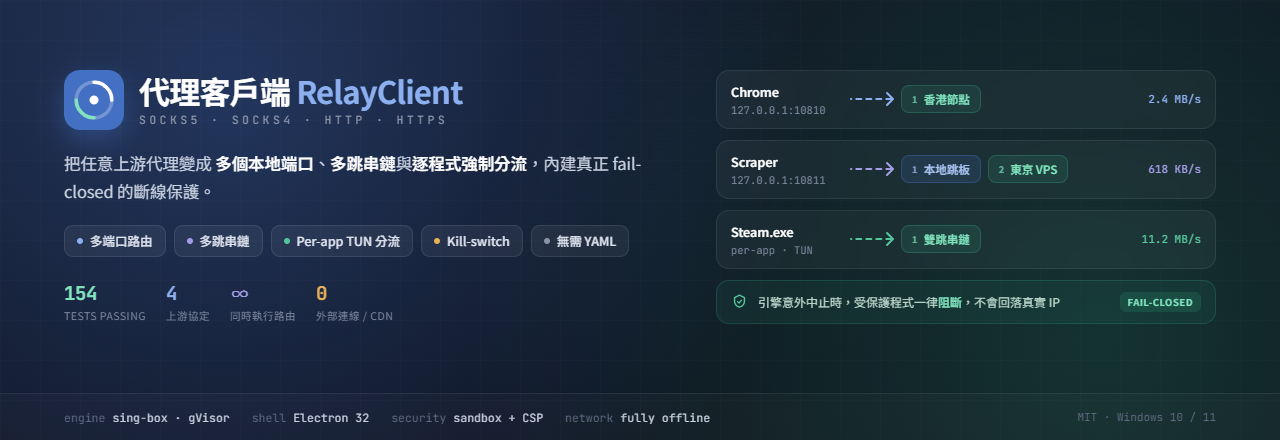
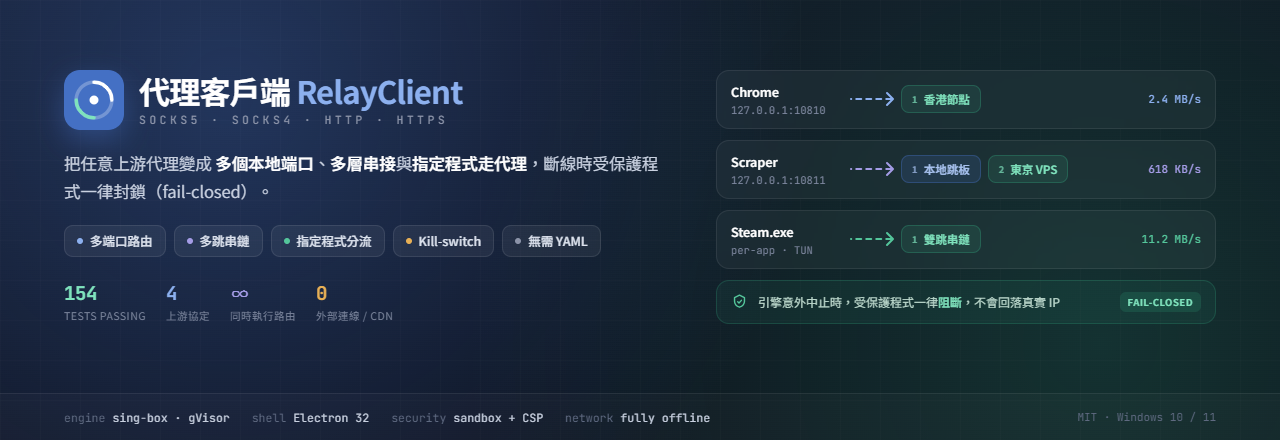
Refine README wording; bump to v1.1.1
- Tone down AI-flavored formatting in both READMEs: drop decorative
  emoji, turn em-dash mini-heading bullets into plain definition lists,
  break rule-of-three phrasing, vary sentence rhythm (reviewed against
  the sepia de-AI writing checklist)
- ROUTES.md: fix stale "UI later" note now that the route editor GUI ships
- Re-render dashboard overview image
- Bump version 1.1.0 -> 1.1.1

Changed region(s): [[0.25, 0.3545, 0.5312, 0.4136], [0.0312, 0.4136, 0.2188, 0.4727], [0.2188, 0.5318, 0.5, 0.5614]]

diff --git a/README.md b/README.md
@@ -4,7 +4,7 @@
 
 **繁體中文** · [English](README.en.md)
 
-把任意 SOCKS / HTTP 上游變成 **多個本地端口 · 多跳串鏈 · 逐程式強制分流**，內建真正 fail-closed 的斷線保護。
+把手上的 SOCKS / HTTP 代理，變成 **多個本地端口 · 多層串接 · 指定程式走代理**；斷線時受保護的程式一律封鎖，不會外洩真實 IP。
 
 [![CI](https://github.com/guan4tou2/relay-client/actions/workflows/ci.yml/badge.svg)](https://github.com/guan4tou2/relay-client/actions/workflows/ci.yml)
 ![Platform](https://img.shields.io/badge/platform-Windows%2010%20%2F%2011-0078D6)
@@ -20,95 +20,94 @@
 
 ## 為什麼用 RelayClient？
 
-多數工具只做一種模型：要嘛**逐程式攔截**（Proxifier、ProxyCap、WideCap），要嘛**規則式隧道**（Clash / Mihomo，YAML 驅動、主打 SS/VMess/Trojan 生態）。
+一般代理工具通常只做一件事：要嘛**攔截個別程式的連線**幫你轉走（Proxifier、ProxyCap、WideCap），要嘛做一個**靠規則自動分流的隧道**（Clash / Mihomo，要寫 YAML 設定，主打 Shadowsocks / VMess / Trojan 那類協定）。
 
-**RelayClient 兩種都做**，且刻意聚焦在單純的 **SOCKS5 / SOCKS4 / HTTP / HTTPS** 上游——不寫 YAML、不碰花俏協定、開源免費。你同時擁有「多個本地中繼端口」與「逐程式 TUN 攔截」，全在一支小巧的原生 app 裡。
+**RelayClient 兩種都做**，但刻意只支援最單純的 **SOCKS5 / SOCKS4 / HTTP / HTTPS** 代理：不用寫 YAML，也不碰 Shadowsocks / VMess 那類協定。開源、免費。「多個本地端口」和「用虛擬網卡攔截指定程式」可以同時用，全在一支原生 app 裡。
 
 ## 功能
 
-- 🎛 **多端口路由** — 每個本地端口綁定**各自**的上游或串鏈，彼此獨立、同時運作。Chrome 指到 `:10810`、爬蟲指到 `:10811`，各走不同出口。
-- 🔗 **多跳串鏈** — `你 → A → B → C → 目標`，proxychains 那味，每條路由獨立設定。
-- 🎯 **逐程式分流（TUN）** — 依**程式名或完整路徑**強制指定程式走代理，其餘直連 —— 像 Proxifier，但用現代 TUN 引擎（[sing-box](https://github.com/SagerNet/sing-box)，gVisor stack），不是老式 LSP hook。
-- 🛡 **斷線保護（fail-closed）** — 分流引擎意外中止時，受保護程式一律**阻斷**，不會回落用真實 IP 裸奔。
-- 🔌 一鍵系統代理、延遲測試、每路由流量統計、多跳即時檢視。
-- 🌗 深/淺/跟隨系統主題 · 系統匣 · 開機自啟 · 匯入匯出 · **自動更新**。
-- 🔒 **強化**：`contextIsolation` + `sandbox`、嚴格 CSP、完全離線（無遠端字型/CDN）、導覽鎖在本地頁面。
+- **多端口路由**：每個本地端口綁定各自的代理（或一整串代理），彼此獨立、可同時開。例如 Chrome 指到 `127.0.0.1:10810`、爬蟲指到 `:10811`，各自從不同節點出網。
+- **多層串接（串鏈）**：連線依序繞過好幾台代理再出網，`你的程式 → A → B → C → 目標`，等同 proxychains，每條路由分開設定。
+- **指定程式走代理**：依程式名稱或完整路徑，把某些程式的連線導去代理、其餘直連，效果類似 Proxifier。底層是 [sing-box](https://github.com/SagerNet/sing-box) 的虛擬網卡（TUN）引擎，連本身沒有 proxy 設定的程式也管得到。
+- **斷線保護（Kill-switch）**：分流引擎萬一意外掛掉，受保護的程式會被直接封鎖，不會改走直連而露出真實 IP（也就是「失敗就斷」，fail-closed）。
+- **其他日常功能**：一鍵開關系統代理、測連線延遲、每條路由的流量統計、串接路徑即時狀態、深色／淺色／跟隨系統主題、縮到系統匣、開機自動啟動、設定匯入匯出、自動更新。
+- **安全設計**：畫面與系統權限隔離、內容安全政策（CSP）鎖死、完全離線，不連任何遠端字型或 CDN。
 
 ## 總覽
 
 ![overview](docs/overview.png)
 
-| 總覽（多路由）| 逐程式分流 |
+| 總覽（多條路由）| 指定程式走代理 |
 |---|---|
 | ![dashboard](docs/screenshot-dashboard.png) | ![split](docs/screenshot-split.png) |
-| **伺服器（上游節點）** | **設定** |
+| **伺服器（上游代理清單）** | **設定** |
 | ![servers](docs/screenshot-servers.png) | ![settings](docs/screenshot-settings.png) |
 
 ## 運作原理
 
-RelayClient 圍繞**兩個可同時運作的獨立路由平面**設計。
+RelayClient 有**兩種可以同時使用的路由方式**。
 
-### 平面 A — 自建本地端口
+### 方式 A — 自建本地端口
 
-每條*路由*開一個本地監聽（`127.0.0.1:<port>`），對你的程式講 SOCKS5 或 HTTP，再轉發到上游（單跳或串鏈）。各路由彼此隔離，可多條同時跑、各有出口。
+每條*路由*會開一個本地端口（`127.0.0.1:<port>`），對你的程式提供 SOCKS5 或 HTTP，再把連線轉發到上游代理（單跳或多層串接）。各路由彼此獨立，可以多條同時開、各自從不同節點出網。支援 proxy 設定的程式（瀏覽器、curl、git）指過來就好，不用裝驅動、不攔截系統。
 
 ```mermaid
 flowchart LR
-  B[Browser] -->|"127.0.0.1:10810"| R1["Route 1 · SOCKS5"]
-  C[Scraper] -->|"127.0.0.1:10811"| R2["Route 2 · chain"]
-  R1 --> U1[Upstream A]
-  R2 --> H1[Hop B] --> H2[Hop C] --> T((Internet))
+  B[瀏覽器] -->|"127.0.0.1:10810"| R1["路由 1 · SOCKS5"]
+  C[爬蟲] -->|"127.0.0.1:10811"| R2["路由 2 · 串接"]
+  R1 --> U1[上游 A]
+  R2 --> H1[中繼 B] --> H2[中繼 C] --> T((網際網路))
   U1 --> T
 ```
 
-### 平面 B — 逐程式分流（TUN）
+### 方式 B — 指定程式走代理（虛擬網卡 / TUN）
 
-對於不能設定 proxy 的程式，引擎會建立 TUN 網卡並依程序路由。一條規則把 `chrome.exe` 送進某路由，未命中的走直連。app 與引擎**永遠 bypass 自己**，避免 relay→上游 的連線被再抓一次（結構上防迴圈）。
+有些程式不能自己設定 proxy。這時引擎會建立一張**虛擬網卡（TUN）**，依「程式」來分流：一條規則把 `chrome.exe` 送進某條路由，沒被規則命中的就走直連。app 和引擎**永遠略過自己的流量**（不攔自己），這樣「本地中繼 → 上游代理」的連線才不會被虛擬網卡再抓回去繞圈，從設計上就避免了無限迴圈。
 
 ```mermaid
 flowchart LR
-  A1["chrome.exe (rule → Route 1)"] --> TUN{{TUN engine}}
-  A2["other apps (default)"] --> TUN
-  TUN -->|matched| RP["127.0.0.1:10810 → upstream"]
-  TUN -->|default direct| D[Direct]
-  RP --> Net((Internet))
+  A1["chrome.exe（規則 → 路由 1）"] --> TUN{{虛擬網卡引擎}}
+  A2["其他程式（預設）"] --> TUN
+  TUN -->|命中規則| RP["127.0.0.1:10810 → 上游代理"]
+  TUN -->|預設直連| D[直連]
+  RP --> Net((網際網路))
   D --> Net
 ```
 
 ### 斷線保護（Kill-switch）
 
-引擎異常中止（而非你主動停止）時，RelayClient 立即以 **block 模式**重建 TUN——受保護程式被丟棄（reject）、其餘照常——並跳出紅色告警與「重新連線 / 停用」。**不碰防火牆**，用的是同一套 TUN 機制，不會多出被端點監控盯上的新指紋。
+引擎意外中止時（是它自己掛掉，不是你按停止），RelayClient 會立刻用封鎖模式重建虛擬網卡：受保護的程式流量直接丟棄，其他程式照常，同時跳出紅色提示讓你選「重新連線 / 停用」。整個過程完全不動 Windows 防火牆，用的是跟平常分流同一套機制，所以不會多出防毒或監控軟體會特別留意的新行為。
 
 ## 與 Proxifier · WideCap · Clash · ProxyCap 的差異
 
-> ✅ 有 · ➖ 部分/受限 · ❌ 無。力求公允，不是為了贏。
+> ✅ 有 · ➖ 部分／受限 · ❌ 無。力求公允，不是為了贏。
 
 | | **RelayClient** | Proxifier | WideCap | Clash / Mihomo | ProxyCap |
 |---|:---:|:---:|:---:|:---:|:---:|
-| 授權 / 價格 | **MIT · 免費** | 商業 | 免費、閉源 | 開源 | 商業 |
+| 授權 / 價格 | **MIT · 免費** | 商業付費 | 免費、閉源 | 開源 | 商業付費 |
 | 開源 | ✅ | ❌ | ❌ | ✅ | ❌ |
-| 上游類型 | SOCKS5/4 · HTTP(S) | SOCKS4/5 · HTTP(S) | SOCKS · HTTP | SS · VMess · Trojan · SOCKS · HTTP … | SOCKS4/5 · HTTP(S) · SSH |
-| 逐程式路由 | ✅ TUN | ✅ LSP/核心 | ✅ | ✅ TUN + 程序規則 | ✅ 驅動 |
-| **多本地端口，各綁不同上游/串鏈** | ✅ **核心** | ➖ 單一 ruleset | ➖ | ➖ 單一混合埠 | ➖ |
-| 多跳串鏈 | ✅ 每路由 | ✅ | ➖ | ✅ relay group | ✅ |
-| 逐程式 **kill-switch**（fail-closed） | ✅ | ➖ | ❌ | ➖ 僅全域 TUN | ➖ |
-| 網域 / GeoIP 規則引擎 | ❌（依程式/依埠） | ✅ | 僅程式 | ✅ **強** | ✅ |
-| 設定方式 | GUI | GUI | GUI | YAML (+GUI) | GUI |
+| 上游代理類型 | SOCKS5/4 · HTTP(S) | SOCKS4/5 · HTTP(S) | SOCKS · HTTP | SS · VMess · Trojan · SOCKS · HTTP … | SOCKS4/5 · HTTP(S) · SSH |
+| 指定程式走代理 | ✅ 虛擬網卡 | ✅ 系統掛鉤 | ✅ | ✅ 虛擬網卡＋程式規則 | ✅ 驅動 |
+| **多個本地端口、各綁不同代理／串接** | ✅ **核心特色** | ➖ 只有單一規則集 | ➖ | ➖ 單一綜合端口 | ➖ |
+| 多層串接 | ✅ 每條路由都能 | ✅ | ➖ | ✅ 代理群組 | ✅ |
+| 指定程式的**斷線保護** | ✅ | ➖ | ❌ | ➖ 只有全域 | ➖ |
+| 依網域 / 地區(GeoIP) 自動分流 | ❌（依程式／依端口） | ✅ | 只能依程式 | ✅ **強** | ✅ |
+| 設定方式 | 圖形介面 | 圖形介面 | 圖形介面 | YAML（另有圖形介面） | 圖形介面 |
 | 平台 | Windows 10/11 | Win · macOS | Windows | 跨平台 | Win · macOS |
 
-**白話**
+**白話說**
 
-- **vs Proxifier / ProxyCap**：那些是成熟的**商業**逐程式代理，規則引擎（host/port/app）很豐富。RelayClient 免費開源、多了「多個本地端口各綁串鏈」與逐程式 kill-switch，但**沒有**網域/host 規則引擎。
-- **vs Clash / Mihomo**：Clash 是給 SS/VMess/Trojan 生態、有網域 & GeoIP 規則、YAML 設定的強大隧道。RelayClient 刻意簡單：純 SOCKS/HTTP 上游、依程式或依埠、零 YAML。要協定多樣 + 規則引擎選 Clash；只有幾台 SOCKS5 想要逐程式 + 多端口 + 串鏈的 GUI 就選 RelayClient。
-- **vs WideCap**：老牌 Windows proxifier、幾乎停更；RelayClient 是現代、開源、有串鏈與 kill-switch 的替代。
+- **對比 Proxifier / ProxyCap**：它們是成熟的**商業**軟體，可以依「主機 / 端口 / 程式」設很細的規則。RelayClient 免費開源，多了「多個本地端口各綁一串代理」和「指定程式的斷線保護」，但**沒有**依網域自動分流的規則引擎。
+- **對比 Clash / Mihomo**：Clash 支援 Shadowsocks/VMess/Trojan 一堆協定、能依網域和地區自動分流，但要寫 YAML。RelayClient 刻意簡單：只吃單純的 SOCKS/HTTP 代理、依「程式」或「端口」分流、完全不用寫設定檔。想要協定多樣＋規則引擎就用 Clash；只有幾台 SOCKS5 想要指定程式＋多端口＋串接的圖形介面就用 RelayClient。
+- **對比 WideCap**：老牌 Windows 代理工具、幾乎停止維護；RelayClient 是現代、開源、還多了串接與斷線保護的替代品。
 
 ### 什麼情況選誰
 
 | 你的情況 | 最適合 |
 |---|---|
-| 「有幾台 SOCKS5/HTTP，想要逐程式 + 多本地端口 + 串鏈，免費」 | **RelayClient** |
-| 「需要網域/GeoIP 規則、SS/VMess/Trojan」 | Clash / Mihomo |
-| 「想要打磨過的商業逐程式代理、深度 host/port 規則」 | Proxifier / ProxyCap |
+| 「有幾台 SOCKS5/HTTP 代理，想要指定程式走代理＋多個本地端口＋串接，而且免費」 | **RelayClient** |
+| 「需要依網域／地區自動分流，或要用 Shadowsocks/VMess/Trojan」 | Clash / Mihomo |
+| 「想要打磨成熟的商業軟體、依主機／端口設很細的規則」 | Proxifier / ProxyCap |
 
 ## 安裝
 
@@ -117,50 +116,52 @@ flowchart LR
 | 檔案 | 說明 |
 |---|---|
 | `RelayClient-Setup-x.y.z.exe` | 安裝版 —— 會**自動更新** |
-| `RelayClient-Portable-x.y.z.exe` | 單一可攜檔 —— 不自更新 |
+| `RelayClient-Portable-x.y.z.exe` | 單一免安裝檔 —— 不會自動更新 |
 
-> 未簽章 → 首次執行 Windows SmartScreen 可能警告：**更多資訊 → 仍要執行**。分流引擎需要一次 UAC 提權來建立 TUN 網卡，其餘皆免權限。
+> 目前未做程式碼簽章，首次執行時 Windows SmartScreen 可能跳警告：按**更多資訊 → 仍要執行**即可。指定程式走代理的功能需要一次 UAC（系統管理員授權）來建立虛擬網卡，其他功能都不需要特別權限。
 
 ## 從原始碼建置
 
 ```bash
 npm install
-# 放入 TUN 引擎執行檔（以 with_gvisor tag 編譯）：
-#   engine/sing-box.exe        ← 不含在本 repo
+# 放入虛擬網卡引擎執行檔（需以 with_gvisor tag 編譯，才有 TUN 功能）：
+#   engine/sing-box.exe        ← 基於授權與檔案大小，本 repo 不含此檔
 npm test          # 154 個單元測試
-npm run dist      # → dist/RelayClient-Setup-*.exe + Portable
+npm run dist      # → dist/RelayClient-Setup-*.exe 與免安裝版
 ```
 
-分流引擎使用 [sing-box](https://github.com/SagerNet/sing-box)；打包前把以 `with_gvisor` build tag 編譯的 `sing-box.exe` 放到 `engine/sing-box.exe`。路由設定檔格式見 **[ROUTES.md](ROUTES.md)**。
+引擎使用 [sing-box](https://github.com/SagerNet/sing-box)；打包前請把以 `with_gvisor` 標籤編譯的 `sing-box.exe` 放到 `engine/sing-box.exe`。路由設定檔格式見 **[ROUTES.md](ROUTES.md)**。
 
-## 自動更新與發版
+## 自動更新與發佈新版
 
-安裝版透過 GitHub Releases 自動更新（讀 `latest.yml` 比對版本）。**發新版**只要：
+安裝版會自動向 GitHub Releases 檢查更新（比對版本號）。要**發佈新版**只要：
 
 ```bash
 # 1) 改 package.json 的 version（例如 1.1.1）
-# 2) 打 tag 並推上去 —— GitHub Actions 會自動測試、抓引擎、打包、發佈 Release
+# 2) 打一個版本 tag 推上去 —— GitHub Actions 會自動跑測試、抓引擎、打包、發佈 Release
 git tag v1.1.1 && git push origin v1.1.1
 ```
 
-`.github/workflows/release.yml` 會跑測試 → 下載 sing-box 引擎 → 打包 → 發佈到 Releases（含自動更新用的 `latest.yml`）。
+`.github/workflows/release.yml` 會依序：跑測試 → 下載 sing-box 引擎 → 打包 → 發佈到 Releases（含自動更新所需的 `latest.yml`）。
 
 ## 安全性
 
-- `contextIsolation: true` · `nodeIntegration: false` · `sandbox: true`
-- 嚴格 **Content-Security-Policy**（`default-src 'self'`）—— 無遠端資源、完全離線運作
-- 導覽防護：拒絕開啟外部視窗 / 離頁導覽
-- 防迴圈設定：app 與 `sing-box` 永遠 bypass 自己
-- 代理密碼以 `electron-store` 存於 OS 使用者設定檔
+（以下較技術，給想了解實作的人看）
+
+- **畫面與系統隔離**：`contextIsolation: true`、`nodeIntegration: false`、`sandbox: true`——網頁畫面碰不到 Node/系統。
+- **內容安全政策（CSP）**：`default-src 'self'`，禁止載入任何遠端資源，完全離線運作。
+- **導覽防護**：禁止開啟外部視窗、禁止跳轉到外部網頁。
+- **防迴圈**：app 與 `sing-box` 一律略過自己的流量。
+- **密碼保護**：代理密碼透過 `electron-store` 存在 OS 使用者設定檔。
 
 ## 架構
 
 ```
-main.js            Electron 主行程 — 視窗、系統匣、IPC、引擎與路由管理、自動更新
-preload.js         contextBridge IPC 介面（renderer 無 Node）
-renderer/          UI（原生 JS、inline 樣式、a11y roles）
-src/proxy/         connect（串鏈）· socks-relay · http-bridge · route-manager
-src/engine/        singbox — TUN 設定生成 + 生命週期 + kill-switch block 模式
+main.js            Electron 主程式 — 視窗、系統匣、程序間通訊(IPC)、引擎與路由管理、自動更新
+preload.js         安全橋接層（網頁端拿不到 Node）
+renderer/          使用者介面（原生 JS、無障礙標籤）
+src/proxy/         connect（串接）· socks-relay · http-bridge · route-manager（路由管理）
+src/engine/        singbox — 產生虛擬網卡設定 + 生命週期 + 斷線保護的封鎖模式
 src/system/        win-proxy（系統代理開關）
 test/              154 個單元測試（jest）
 ```

diff --git a/README.en.md b/README.en.md
@@ -4,7 +4,7 @@
 
 [繁體中文](README.md) · **English**
 
-Turn any SOCKS / HTTP upstream into **multiple local ports · multi-hop chains · per-app tunnels** — with a real fail-closed kill-switch.
+Turn any SOCKS / HTTP upstream into **multiple local ports · multi-hop chains · per-app tunnels**, with a real fail-closed kill-switch.
 
 [![CI](https://github.com/guan4tou2/relay-client/actions/workflows/ci.yml/badge.svg)](https://github.com/guan4tou2/relay-client/actions/workflows/ci.yml)
 ![Platform](https://img.shields.io/badge/platform-Windows%2010%20%2F%2011-0078D6)
@@ -26,13 +26,12 @@ Most tools pick **one** model: either they **intercept per-app traffic** (Proxif
 
 ## Features
 
-- 🎛 **Multi-port routes** — every local port binds to its **own** upstream or chain, running independently and concurrently. Point Chrome at `:10810`, a scraper at `:10811`, each exiting through a different proxy.
-- 🔗 **Multi-hop chaining** — `you → A → B → C → target`, proxychains-style, per route.
-- 🎯 **Per-app split routing (TUN)** — force programs by **name or full path** through a chosen route while everything else stays direct — like Proxifier, using a modern TUN engine ([sing-box](https://github.com/SagerNet/sing-box), gVisor stack) instead of legacy LSP hooks.
-- 🛡 **Kill-switch (fail-closed)** — if the split engine dies unexpectedly, protected apps are **blocked**, not silently leaked through your real IP.
-- 🔌 One-click system proxy, latency test, per-route traffic stats, live multi-hop view.
-- 🌗 Dark / light / system theme · tray · boot auto-start · import/export · **auto-update**.
-- 🔒 **Hardened**: `contextIsolation` + `sandbox`, strict CSP, fully offline (no remote fonts/CDN), navigation locked to local pages.
+- **Multi-port routes**: every local port binds to its own upstream or chain, running independently and concurrently. Point Chrome at `:10810`, a scraper at `:10811`, each exiting through a different proxy.
+- **Multi-hop chaining**: `your app → A → B → C → target`, proxychains-style, configured per route.
+- **Per-app split routing (TUN)**: force programs by name or full path through a chosen route while everything else stays direct — like Proxifier, but on a modern TUN engine ([sing-box](https://github.com/SagerNet/sing-box), gVisor stack) rather than legacy LSP hooks. Works even for apps that have no proxy setting of their own.
+- **Kill-switch (fail-closed)**: if the split engine dies unexpectedly, protected apps are blocked rather than quietly falling back to your real IP.
+- **Also included**: one-click system proxy, latency test, per-route traffic stats, live multi-hop view, dark / light / system theme, tray, boot auto-start, import/export, auto-update.
+- **Hardened**: `contextIsolation` + `sandbox`, strict CSP, fully offline (no remote fonts/CDN), navigation locked to local pages.
 
 ## Overview
 

diff --git a/ROUTES.md b/ROUTES.md
@@ -1,7 +1,10 @@
-# 多端口路由（Routes）— 先以設定檔驅動（UI 之後再做）
+# 多端口路由（Routes）— 設定檔格式參考（進階）
 
-app 啟動時會讀 `config.json` 裡的 `routes`，替每一條起一個本地 port，各自綁定你指定的
-**單一 proxy 或多跳串鏈**，彼此獨立同時運作。這與主連線（10808/10809 → 當前伺服器）並存、不衝突。
+> app 已內建完整的路由圖形介面——一般使用只要在「總覽」分頁新增路由即可。
+> 本文件是給想**直接編輯設定檔**、或想了解格式的進階使用者。
+
+app 啟動時會讀 `config.json` 裡的 `routes`，替每一條開一個本地端口，各自綁定你指定的
+**單一代理，或多層串接（串鏈）**，彼此獨立、同時運作。
 
 ## config.json 位置
 ```
